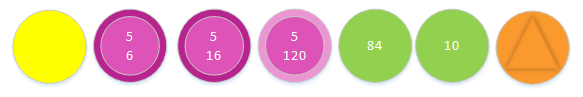
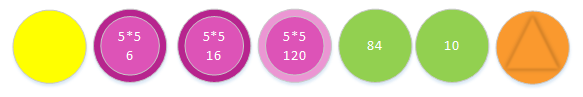
add to readme

Changed region(s): [[0.3396, 0.3093, 0.4014, 0.433], [0.1852, 0.3093, 0.247, 0.433], [0.4631, 0.3093, 0.5249, 0.433]]

diff --git a/README.md b/README.md
@@ -5,13 +5,29 @@
 从AI研究的角度来说，AI的学习和跟进是有偏向性的，更多的精英是擅长相关的一到两个领域，在这个领域做到更好。而从AI应用工程师的角度来说，每一个工程都可能涉及很多个AI的方向，而他们需要了解掌握不同的方向才能更好的开发和设计。但是AI中每一个领域都在日新月异的成长。而每一位研究人员写paper的风格都不一样，相似的模型，为了突出不同的改进点，他们对模型的描述和图示都可能大不相同。为了帮助更多的人在不同领域能够快速跟进前沿技术，我们构建了“AlphaTree计划”，每一篇文章都会对应文章，代码，然后进行图示输出。
 
 
-在了解这个计划之前，我们先了解一下各个方向的发展情况，用地铁图的形式绘制了第一个版本。里面包含十二个方向，里面列的模型，除了商业化的部分外，其他基本都有开源代码，并且是应用方向使用较多的模型。也许还有遗漏与不完善的地方，大家一起来更新吧。
+在了解这个计划之前，我们先了解一下各个方向的发展情况，用地铁图的形式绘制了第一个版本。第一个版本主要包括了图像方向的十二个子方向，里面列的模型，除了商业化的部分外，其他则选择了一些应用方向使用较多的开源模型。也许还有遗漏与不完善的地方，大家一起来更新吧。
 
 
 
 <a href="https://raw.githubusercontent.com/weslynn/graphic-deep-neural-network/master/map/mapclean_1.0.png"> <img src="https://github.com/weslynn/graphic-deep-neural-network/blob/master/map/mapclean_1.0.png" width="1200"> </a>
 
 
+现在主要有如下方向
+
+![方向](https://github.com/weslynn/graphic-deep-neural-network/blob/master/map/directions.png)
+
+
+每个方向上都记录了一些比较重要的模型结构。为了方便理解模型的变化，我们对模型进行统一的图示
+
+一个常用的神经网络结构可以进行如下的等价变换。每个圆圈上的数字代表这一层有多少个神经元。
+
+![简化](https://github.com/weslynn/graphic-deep-neural-network/blob/master/modelpic/simplelize.png)
+
+图像的深度卷积网络 每一层的卷积核大小也是大家感兴趣的，因此会在简化结构中，加上卷积核大小。这个可以写在圆圈中，也可以写在圆圈下方。
+
+如 [LeNet网络](https://github.com/weslynn/graphic-deep-neural-network/blob/master/object%20classification%20%E7%89%A9%E4%BD%93%E5%88%86%E7%B1%BB/LeNet.md) 
+
+[!Lenet_short](https://github.com/weslynn/graphic-deep-neural-network/raw/master/modelpic/lenet-short.png)
 
 
 
